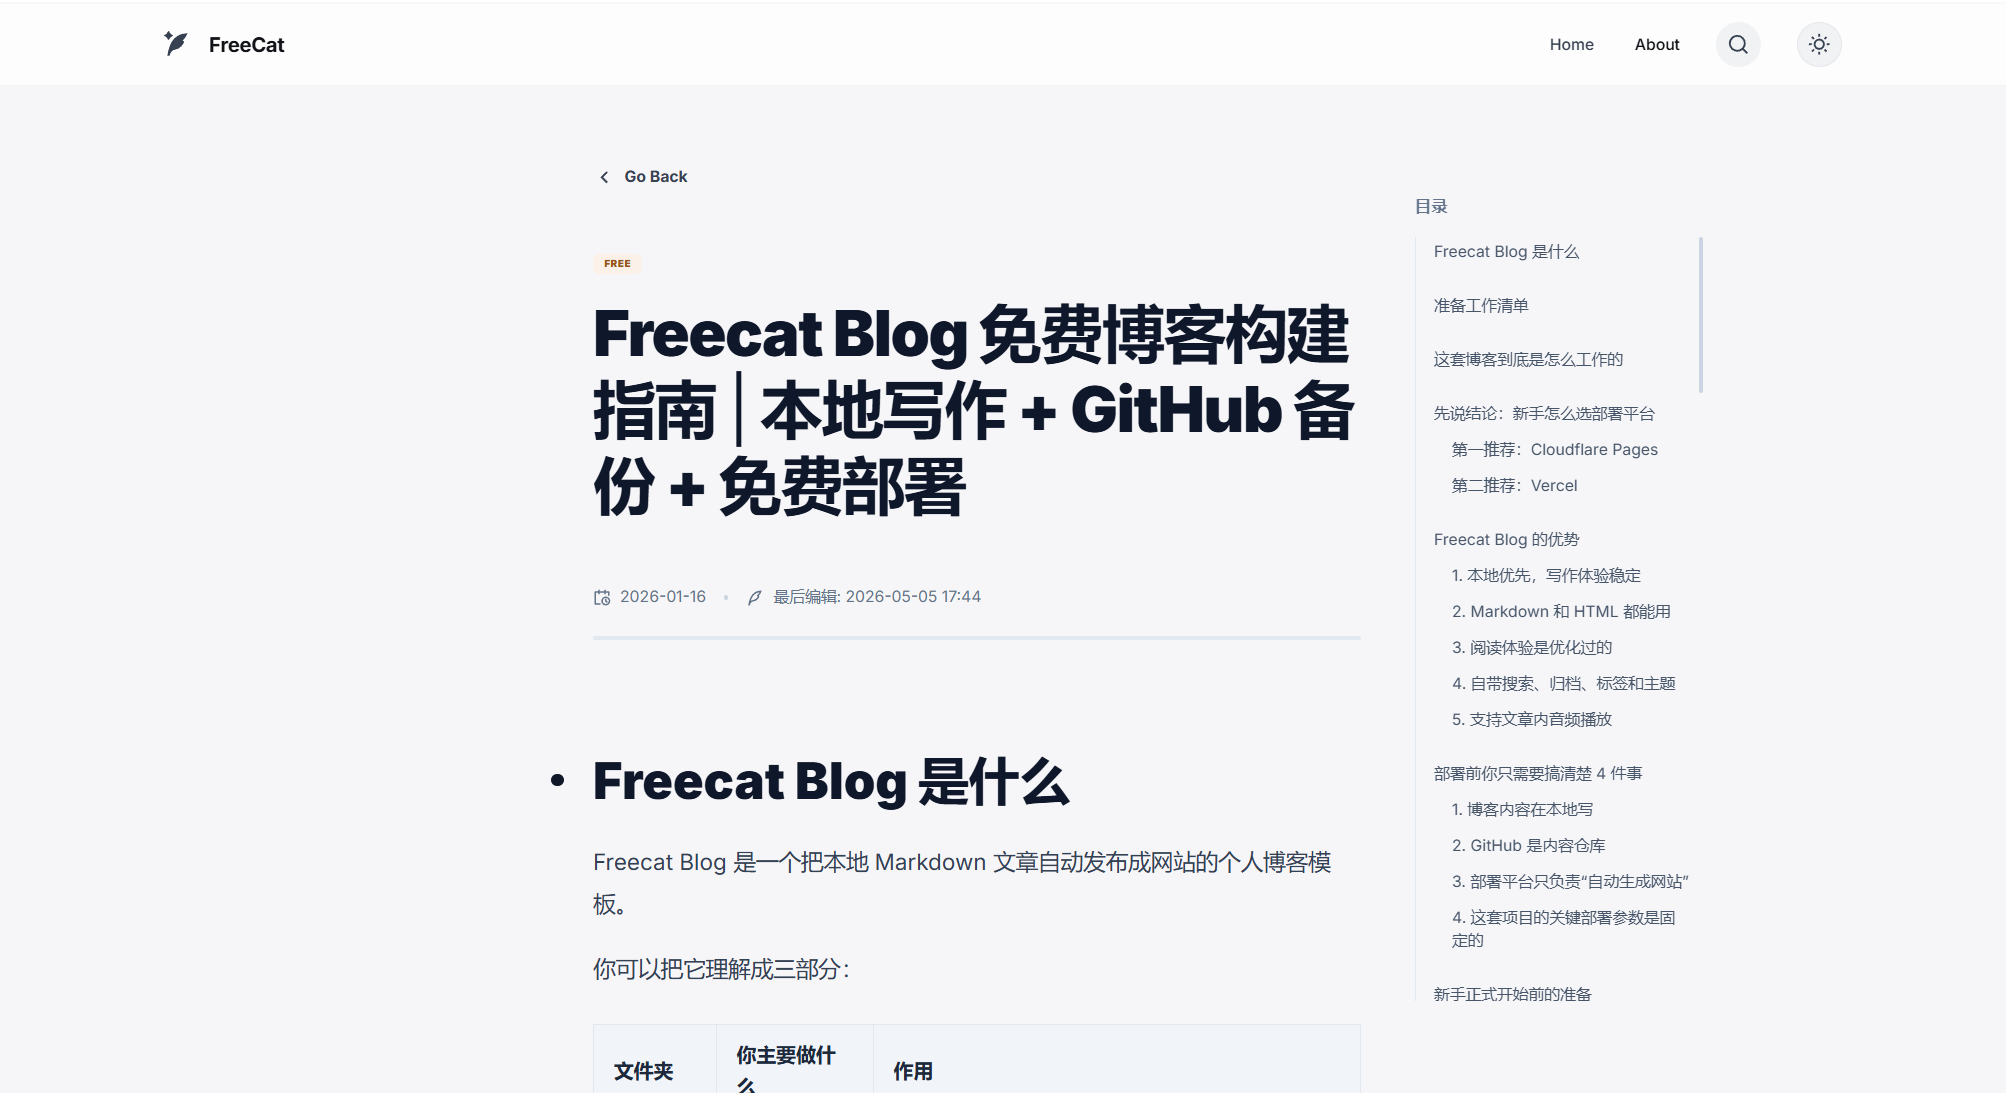
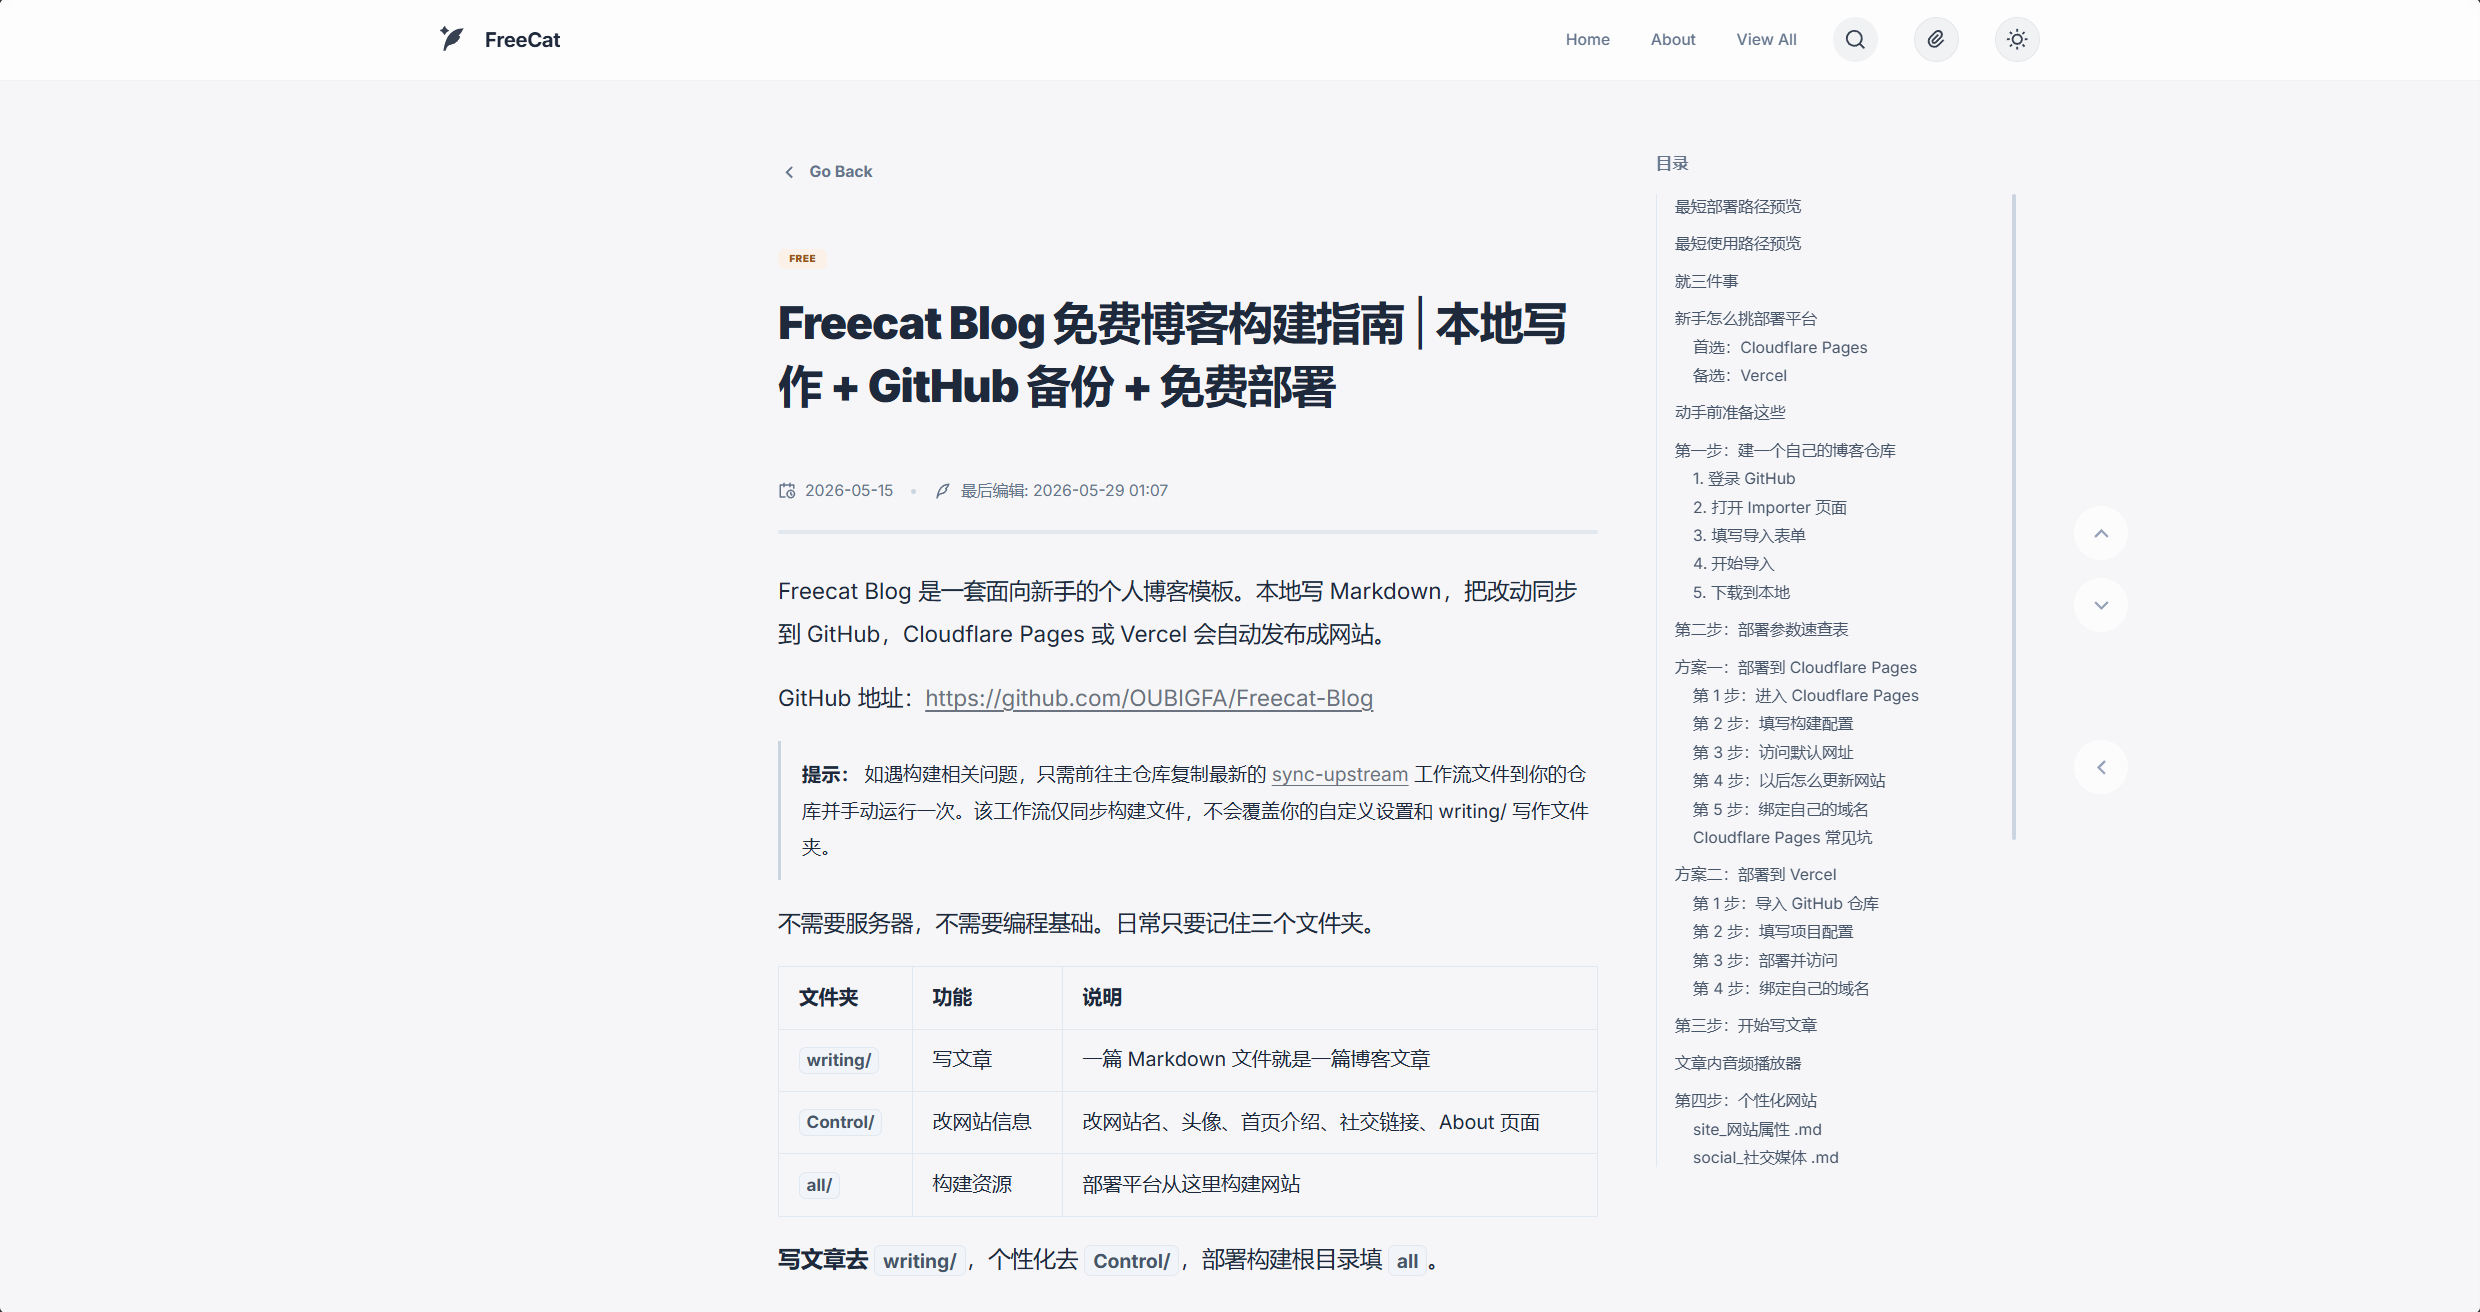
fix(markdown渲染器): 调整markdown图片中非图片链接的处理逻辑
移除了原代码中针对非图片URL返回外部嵌入的判断逻辑，新增对应测试用例验证新行为

diff --git a/all/test/markdown.test.js b/all/test/markdown.test.js
@@ -30,6 +30,15 @@ test('markdown images render the loading spinner element', () => {
     assert.equal(html.includes('<span class="loader"></span>'), true);
 });
 
+test('markdown image syntax keeps non-image URLs in the placeholder image flow', () => {
+    const html = parseMarkdown('![](https://x.com/i/status/1930080468529230100)');
+
+    assert.equal(html.includes('class="external-embed'), false);
+    assert.equal(html.includes('src="/image/404.png"'), true);
+    assert.equal(html.includes('data-src="https://x.com/i/status/1930080468529230100"'), true);
+    assert.equal(html.includes('class="post-image-loader"'), true);
+});
+
 test('inline-code headings keep their own text in the table of contents', () => {
     const { headings, toc } = extractHeadingsAndGenerateTOC([
         '### `site_网站属性.md`',